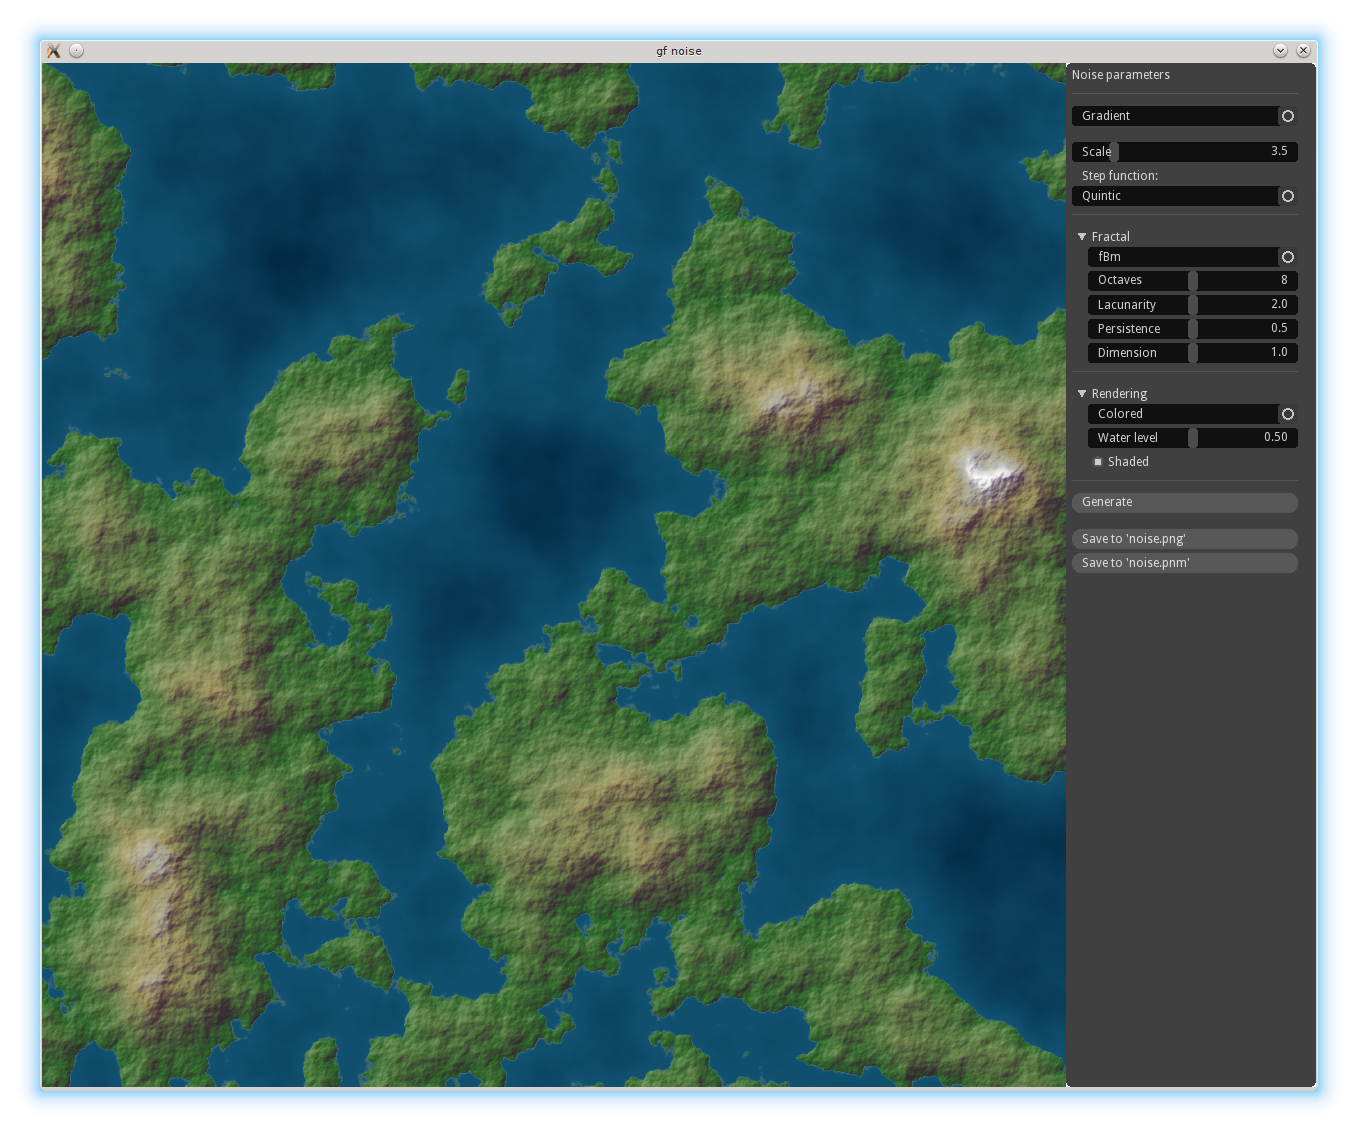
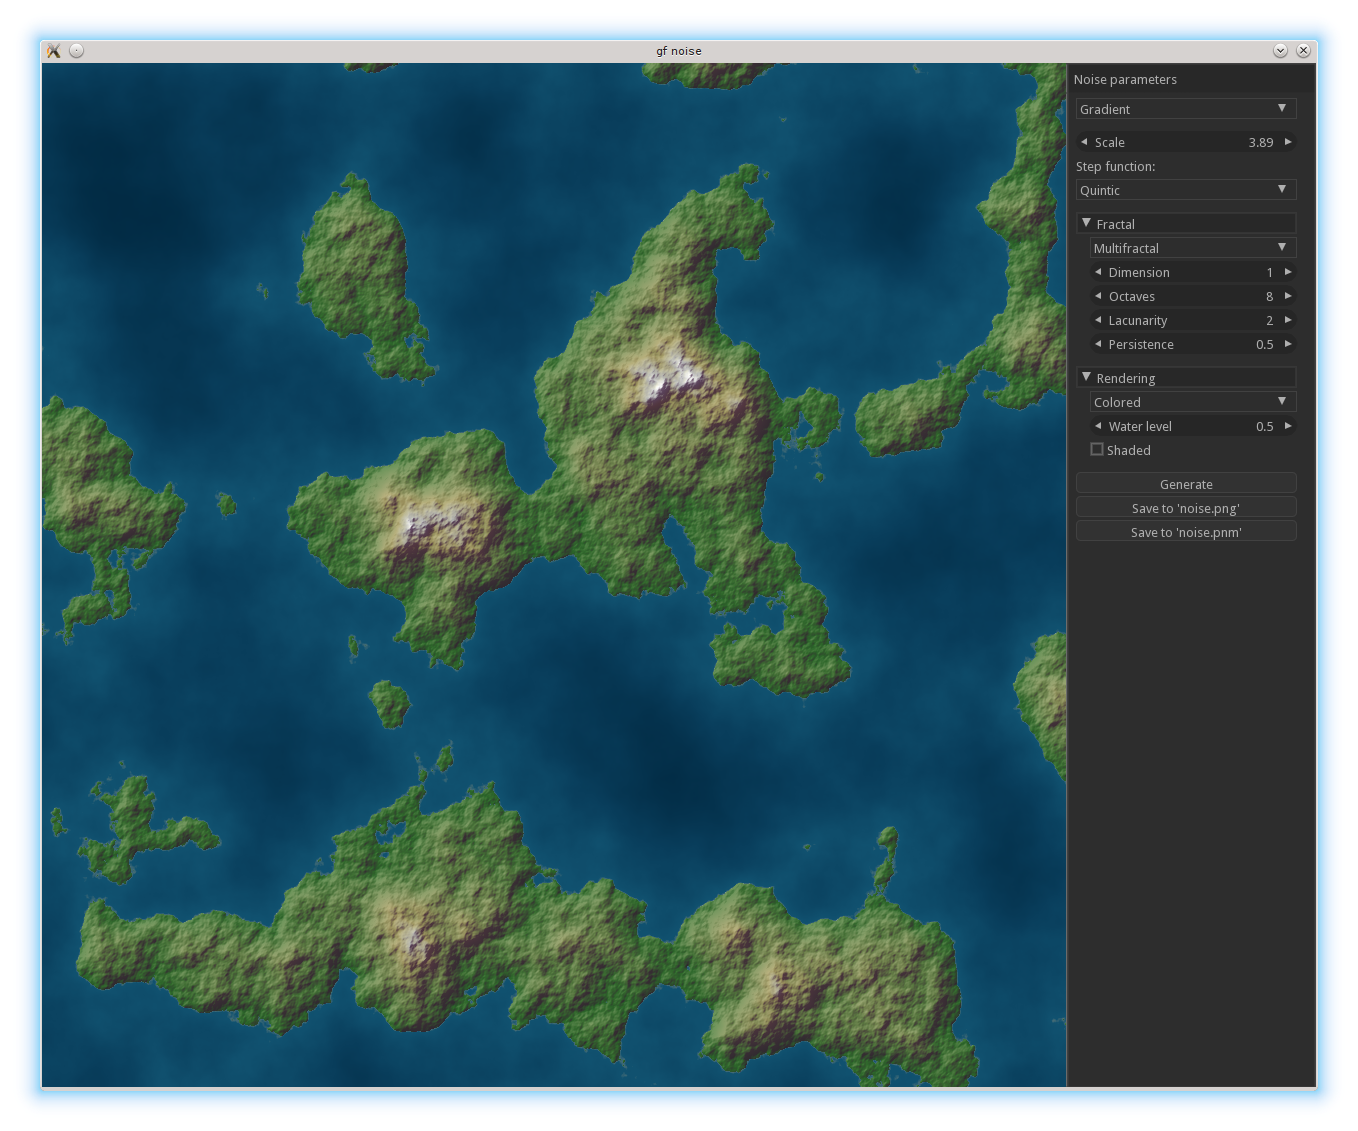
add separator() and update gf_noise screenshot

diff --git a/tools/gf_noise/gf_noise.cc b/tools/gf_noise/gf_noise.cc
@@ -492,6 +492,10 @@ int main() {
 
     ui.layoutRowDynamic(20, 1);
     ui.combobox(noiseChoices, noiseChoice, 20, { ExtraSize, Size });
+
+    ui.separator(5);
+
+    ui.layoutRowDynamic(20, 1);
     ui.propertyFloat("Scale", 0.1f, scale, 20.0f, 0.1f, 0.1f);
 
     NoiseFunction noiseFunction = static_cast<NoiseFunction>(noiseChoice);
@@ -512,6 +516,8 @@ int main() {
       default:
         break;
     }
+
+    ui.separator(5);
 
     if (ui.treePush(gf::UITree::Tab, "Fractal", fractalCollapsed)) {
       ui.layoutRowDynamic(20, 1);
@@ -559,6 +565,7 @@ int main() {
       ui.treePop();
     }
 
+    ui.separator(5);
 
     if (ui.treePush(gf::UITree::Tab, "Rendering", renderingCollapsed)) {
       ui.layoutRowDynamic(20, 1);
@@ -578,6 +585,8 @@ int main() {
 
       ui.treePop();
     }
+
+    ui.separator(5);
 
     ui.layoutRowDynamic(20, 1);
     if (ui.buttonLabel("Generate")) {

diff --git a/library/UI.cc b/library/UI.cc
@@ -406,6 +406,11 @@ inline namespace v1 {
     nk_layout_row(&m_impl->ctx, static_cast<nk_layout_format>(format), height, ratio.getSize(), ratio.getData());
   }
 
+  void UI::separator(float height) {
+    setState(State::Setup);
+    nk_layout_row_dynamic(&m_impl->ctx, height, 0);
+  }
+
   bool UI::groupBegin(const std::string& title, UIWindowFlags flags) {
     setState(State::Setup);
     return nk_group_begin(&m_impl->ctx, title.c_str(), flags.getValue());

diff --git a/include/gf/UI.h b/include/gf/UI.h
@@ -152,6 +152,8 @@ inline namespace v1 {
     void layoutRowEnd();
     void layoutRow(UILayout format, float height, ArrayRef<float> ratio);
 
+    void separator(float height);
+
     /**
      * @}
      */
